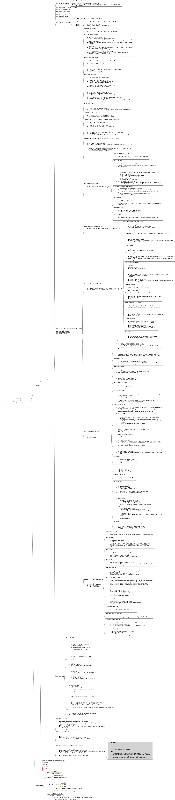
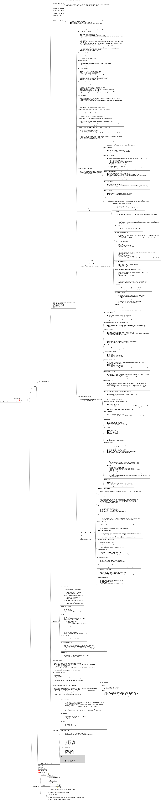
extended ATPL mind map

diff --git a/ATPL/ATPL.mm b/ATPL/ATPL.mm
@@ -2,7 +2,7 @@
 <!-- To view this file, download free mind mapping software FreeMind from http://freemind.sourceforge.net -->
 <node CREATED="1568171896215" ID="ID_207039425" MODIFIED="1568174283124" TEXT="ATPL">
 <node CREATED="1568171989853" ID="ID_1998192836" MODIFIED="1568243332833" POSITION="right" TEXT="SARON">
-<node CREATED="1568172948798" ID="ID_62855509" MODIFIED="1569875637513" TEXT="Air Law and Procedures">
+<node CREATED="1568172948798" ID="ID_62855509" MODIFIED="1569972734832" TEXT="Air Law and Procedures">
 <node CREATED="1568245279945" ID="ID_1079797516" MODIFIED="1568245319335" TEXT="1.05 Aircraft Type Ratings">
 <node CREATED="1568245337961" ID="ID_75602462" MODIFIED="1568246099441">
 <richcontent TYPE="NODE"><html>
@@ -2163,8 +2163,7 @@
       </li>
     </ul>
   </body>
-</html>
-</richcontent>
+</html></richcontent>
 </node>
 <node CREATED="1569963709100" ID="ID_505197160" MODIFIED="1569964039149">
 <richcontent TYPE="NODE"><html>
@@ -2196,8 +2195,7 @@
       </li>
     </ul>
   </body>
-</html>
-</richcontent>
+</html></richcontent>
 </node>
 <node CREATED="1569964452061" ID="ID_1954294482" MODIFIED="1569965260281">
 <richcontent TYPE="NODE"><html>
@@ -2232,8 +2230,7 @@
       </li>
     </ul>
   </body>
-</html>
-</richcontent>
+</html></richcontent>
 <node CREATED="1569967506203" ID="ID_1449553423" MODIFIED="1569967976018">
 <richcontent TYPE="NODE"><html>
   <head>
@@ -2276,6 +2273,197 @@
             Without Alternate (AOC, POC): Approach, MIssed Approach, 30 minutes
           </li>
         </ul>
+      </li>
+    </ul>
+  </body>
+</html></richcontent>
+</node>
+</node>
+<node CREATED="1569972736927" ID="ID_514782042" MODIFIED="1569972743312" TEXT="1.19 IFR Flight">
+<node CREATED="1569972903894" ID="ID_1927607732" MODIFIED="1569973965577">
+<richcontent TYPE="NODE"><html>
+  <head>
+    
+  </head>
+  <body>
+    <p>
+      Alternate Minima
+    </p>
+    <p>
+      
+    </p>
+    <ul>
+      <li>
+        2 or more usable (WX, NOTAM) precision approaches: <b>400-1</b>&#160;(or <i>200-1/2</i>&#160; above lowest usable HAT whichever is greater)
+      </li>
+      <li>
+        1 usable (WX, NOTAM) precision approach: <b>600-2</b>&#160;(or <i>300-1</i>&#160; above lowest usable HAT whichever is greater)
+      </li>
+      <li>
+        non-precision approach only: <b>800-2</b>&#160;(or <i>300-1</i>&#160;above lowest usable HAT whichever is greater)
+      </li>
+      <li>
+        no IFR approach: <b>500</b>&#160;above minimum IFR altitude (MOCA, MEA) permitting VFR approach
+      </li>
+      <li>
+        no TAF but Aerodrome Advisory: 500 above the lowest usable HAT/HAA and 3 SM
+      </li>
+    </ul>
+    <p>
+      
+    </p>
+    <p>
+      Sliding Scale
+    </p>
+    <p>
+      
+    </p>
+    <ul>
+      <li>
+        Standard alternate minima: <b>600-2</b>&#160;and <b>800-2</b>
+      </li>
+      <li>
+        600-2: 700-1 1/2, 800-1
+      </li>
+      <li>
+        800-2: 900-1 1/2, 1000-1
+      </li>
+    </ul>
+    <p>
+      
+    </p>
+    <p>
+      Rounding
+    </p>
+    <p>
+      
+    </p>
+    <ul>
+      <li>
+        HAT or HAA: 20ft
+      </li>
+      <li>
+        HAA = 620 -&gt; HAA = 600
+      </li>
+      <li>
+        HAA = 621 -&gt; HAA = 700
+      </li>
+      <li>
+        1 3/4 -&gt; 2, 2 1/4 -&gt; 2
+      </li>
+    </ul>
+  </body>
+</html>
+</richcontent>
+</node>
+<node CREATED="1569974466249" ID="ID_1657905488" MODIFIED="1569974997129">
+<richcontent TYPE="NODE"><html>
+  <head>
+    
+  </head>
+  <body>
+    <p>
+      Minimum Altitudes
+    </p>
+    <p>
+      
+    </p>
+    <ul>
+      <li>
+        AMA, SA 100NM, MOCA, MEA, MSA, MVA, MDA, DA
+      </li>
+      <li>
+        No lower than 1000ft above the highest obstacle within&#160;5NM
+      </li>
+    </ul>
+  </body>
+</html>
+</richcontent>
+</node>
+<node CREATED="1569975187120" ID="ID_1247740820" MODIFIED="1569975454429">
+<richcontent TYPE="NODE"><html>
+  <head>
+    
+  </head>
+  <body>
+    <p>
+      Aircraft Approach Categories
+    </p>
+    <p>
+      
+    </p>
+    <ul>
+      <li>
+        A Vref up to 90 KIAS
+      </li>
+      <li>
+        B Vref 91 to 120 KIAS
+      </li>
+      <li>
+        C Vref 121 to 140 KIAS
+      </li>
+      <li>
+        D Vref 141 to 165 KIAS
+      </li>
+      <li>
+        E Vref over 165 KIAS
+      </li>
+    </ul>
+  </body>
+</html>
+</richcontent>
+</node>
+<node CREATED="1569975801377" ID="ID_647390504" MODIFIED="1569975895765">
+<richcontent TYPE="NODE"><html>
+  <head>
+    
+  </head>
+  <body>
+    <p>
+      RVR / Ground Visibility
+    </p>
+    <p>
+      
+    </p>
+    <ul>
+      <li>
+        GVIS 1, RVR 5000
+      </li>
+      <li>
+        GVIS 3/4, RVR 4000
+      </li>
+      <li>
+        GVIS 1/2, RVR 2600
+      </li>
+      <li>
+        GVIS 1/4, RVR 1400
+      </li>
+    </ul>
+  </body>
+</html>
+</richcontent>
+</node>
+<node CREATED="1569975971914" ID="ID_1241632014" MODIFIED="1569976357997">
+<richcontent TYPE="NODE"><html>
+  <head>
+    
+  </head>
+  <body>
+    <p>
+      Approach Ban (non CARs Part VII / non air operators)
+    </p>
+    <p>
+      
+    </p>
+    <ul>
+      <li>
+        RVR A only: 1200
+      </li>
+      <li>
+        RVR A and B: 1200/600
+      </li>
+      <li>
+        RVR B only: 1200
       </li>
     </ul>
   </body>
